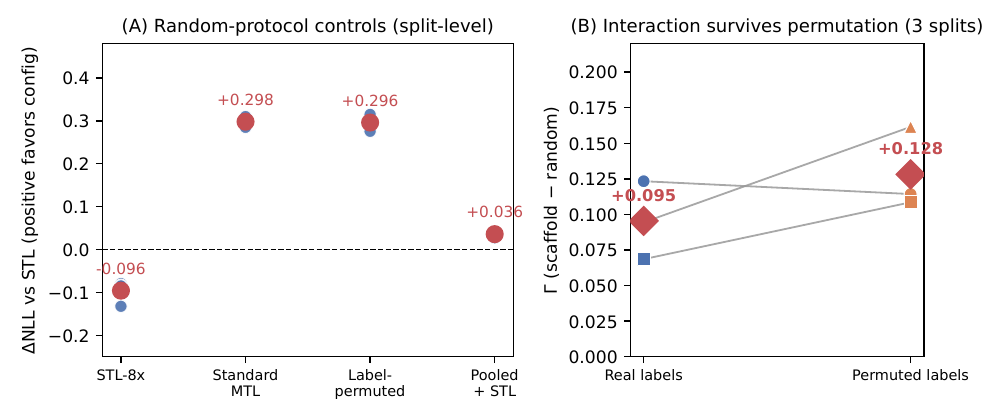
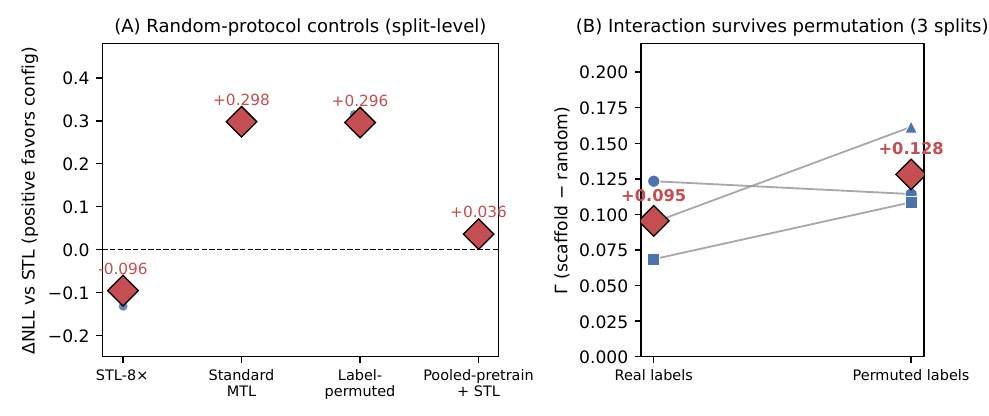
Round-15: Figure 1 arrows anchored to box edges without crossing; Figure 4 diamond means and STL-8x labels

diff --git a/analysis/b3_figures_v3.py b/analysis/b3_figures_v3.py
@@ -64,9 +64,9 @@ def fig1_framework():
     add(0.30, 0.35, 'Per-model temperature scaling\nstrongly attenuates\nproper-score contrasts', b_diag, key='D')
     add(0.30, 0.17, 'Gain persists after label\npermutation; not reproduced\nby compute-matched STL', b_diag, key='E')
 
-    # Dashed branches (right column)
+    # Dashed branches (right column, stacked without crossing the main chain)
     add(0.76, 0.72, 'Cross-architecture sensitivity:\nGIN directionally reproduces\nthe positive protocol interaction', b_diag, key='G', dashed=True)
-    add(0.76, 0.35, 'Secondary analyses:\nnovelty (flat) / downsampling /\npartition geometry / top-k decision', b_sec, fs=8, key='S', dashed=True)
+    add(0.76, 0.90, 'Secondary analyses:\nnovelty (flat) / downsampling /\npartition geometry / top-k decision', b_sec, fs=8, key='S', dashed=True)
 
     # Transparency record (bottom)
     add(0.30, 0.02, 'Development analyses excluded;\nconfirmatory plan frozen before rerun', b_sec, fs=8, key='T')
@@ -74,14 +74,14 @@ def fig1_framework():
     e = lambda k: ext[k]
     ax.text(0.30, ext['T'][3] + 0.015, 'Transparency record --- not used in confirmatory inference',
             ha='center', va='bottom', fontsize=7.5, color='#666666')
-    # main chain vertical arrows
-    arrow(0.30, e('A')[3] - 0.012, 0.30, e('B')[2] + 0.012)
-    arrow(0.30, e('B')[3] - 0.012, 0.30, e('C')[2] + 0.012)
-    arrow(0.30, e('C')[3] - 0.012, 0.30, e('D')[2] + 0.012)
-    arrow(0.30, e('D')[3] - 0.012, 0.30, e('E')[2] + 0.012)
-    # dashed branches from the raw finding and the main comparison
-    arrow(e('B')[1] + 0.012, 0.72, e('G')[0] - 0.012, 0.72, dashed=True)
-    arrow(e('A')[1] + 0.012, e('A')[3], e('S')[0] - 0.012, e('S')[2], dashed=True)
+    # main chain vertical arrows (start at box bottom [2], end at box top [3])
+    arrow(0.30, e('A')[2] - 0.012, 0.30, e('B')[3] + 0.012)
+    arrow(0.30, e('B')[2] - 0.012, 0.30, e('C')[3] + 0.012)
+    arrow(0.30, e('C')[2] - 0.012, 0.30, e('D')[3] + 0.012)
+    arrow(0.30, e('D')[2] - 0.012, 0.30, e('E')[3] + 0.012)
+    # dashed branches: horizontal, both start at box right edges, no crossing
+    arrow(e('B')[1] + 0.008, 0.72, e('G')[0] - 0.008, 0.72, dashed=True)
+    arrow(e('A')[1] + 0.008, 0.90, e('S')[0] - 0.008, 0.90, dashed=True)
 
     allx = [ext[k][0] for k in ext] + [ext[k][1] for k in ext]
     ally = [ext[k][2] for k in ext] + [ext[k][3] for k in ext]
@@ -290,17 +290,20 @@ def fig5_mechanism():
     axA, axB = axes
 
     xs = [0, 1, 2, 3]
-    groups = [('STL-8x', stl8x, 'p_stl8x'),
+    groups = [('STL-8$\\times$', stl8x, 'p_stl8x'),
               ('Standard\nMTL', c, 'p_mtl'),
               ('Label-\npermuted', c, 'p_mtl_shuff'),
-              ('Pooled\n+ STL', pooled, 'p_mtl_pooled')]
+              ('Pooled-pretrain\n+ STL', pooled, 'p_mtl_pooled')]
+    rng = np.random.RandomState(3)
     for x, (tag, src, col) in zip(xs, groups):
         d_all = split_means(src, col)
         if len(d_all) == 0:
             continue
-        axA.scatter(np.full(len(d_all), x), d_all, s=48, color='#4C72B0',
-                    alpha=0.9, zorder=2, edgecolors='white', linewidths=0.6)
-        axA.plot(x, d_all.mean(), 'o', ms=9, color='#C44E52', zorder=3)
+        jit = rng.uniform(-0.055, 0.055, len(d_all))
+        axA.scatter(x + jit, d_all, s=30, color='#4C72B0',
+                    alpha=0.85, zorder=2, edgecolors='white', linewidths=0.5)
+        axA.plot(x, d_all.mean(), marker='D', ms=12, color='#C44E52',
+                 markeredgecolor='black', markeredgewidth=0.7, zorder=3)
         axA.annotate(f'{d_all.mean():+.3f}', (x, d_all.mean()),
                      xytext=(0, 9), textcoords='offset points', ha='center',
                      fontsize=8.5, color='#C44E52')
@@ -338,15 +341,17 @@ def fig5_mechanism():
     g_real = gamma_per_split_pair(ms, mr, 'p_mtl')
     g_perm = gamma_per_split_pair(ms, mr, 'p_mtl_shuff')
     markers = ['o', 's', '^']
-    # paired split-level values for real and permuted labels
+    # paired split-level values: split identity shown by marker shape and
+    # connecting lines, one neutral color (no implied experiment-type distinction)
     for k in range(len(g_real)):
         axB.plot([0, 1], [g_real[k], g_perm[k]], color='#999999', lw=1.0, alpha=0.85, zorder=1)
-        axB.scatter(0, g_real[k], s=52, marker=markers[k % 3], color='#4C72B0',
-                    zorder=3, edgecolors='white', linewidths=0.6)
-        axB.scatter(1, g_perm[k], s=52, marker=markers[k % 3], color='#DD8452',
-                    zorder=3, edgecolors='white', linewidths=0.6)
-    for x, v, c in [(0, g_real.mean(), '#4C72B0'), (1, g_perm.mean(), '#DD8452')]:
-        axB.plot(x, v, marker='D', ms=11, color='#C44E52', zorder=4)
+        axB.scatter(0, g_real[k], s=46, marker=markers[k % 3], color='#4C72B0',
+                    zorder=3, edgecolors='white', linewidths=0.5)
+        axB.scatter(1, g_perm[k], s=46, marker=markers[k % 3], color='#4C72B0',
+                    zorder=3, edgecolors='white', linewidths=0.5)
+    for x, v in [(0, g_real.mean()), (1, g_perm.mean())]:
+        axB.plot(x, v, marker='D', ms=12, color='#C44E52',
+                 markeredgecolor='black', markeredgewidth=0.7, zorder=4)
         axB.annotate(f'{v:+.3f}', (x, v), xytext=(0, 11), textcoords='offset points',
                      ha='center', fontsize=9, color='#C44E52', fontweight='bold')
     axB.axhline(0, color='black', lw=0.8, ls='--')
